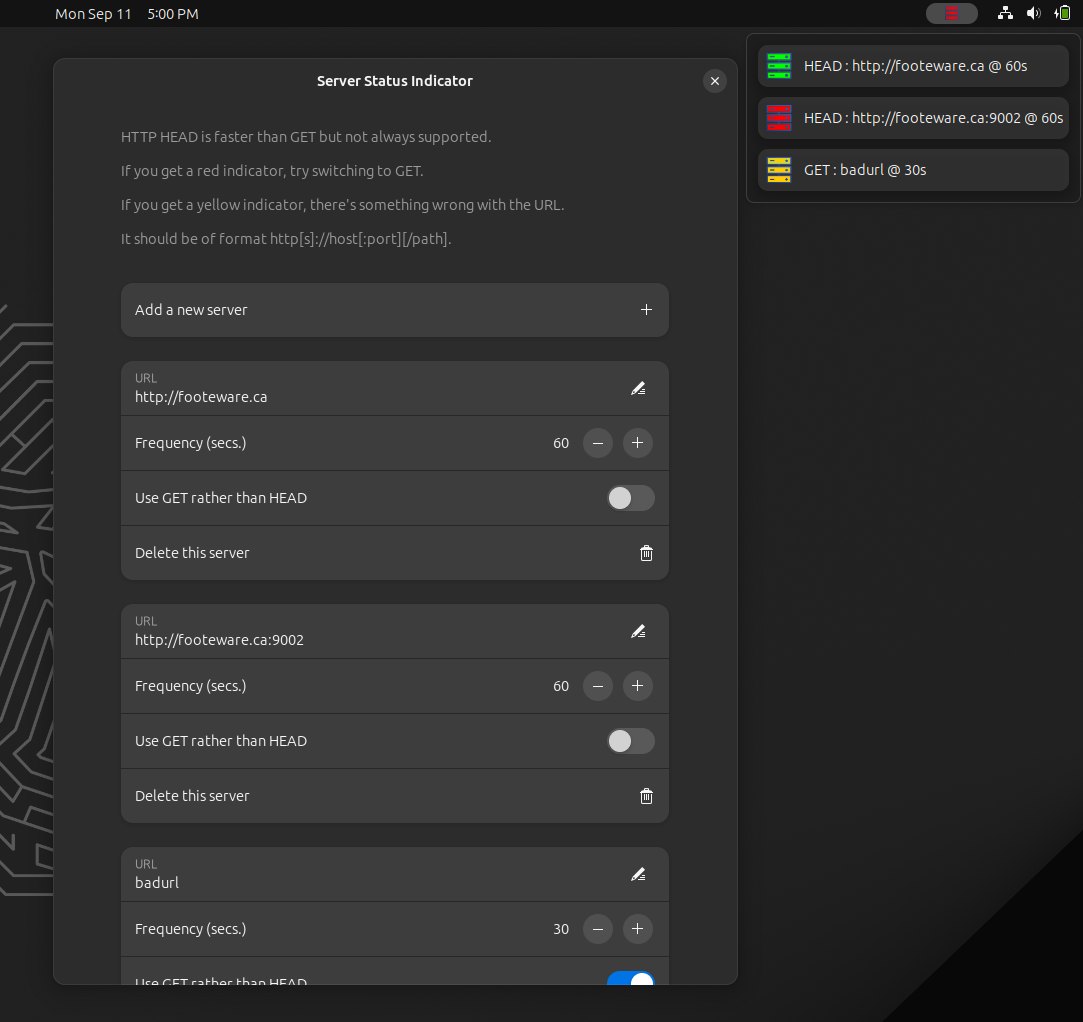
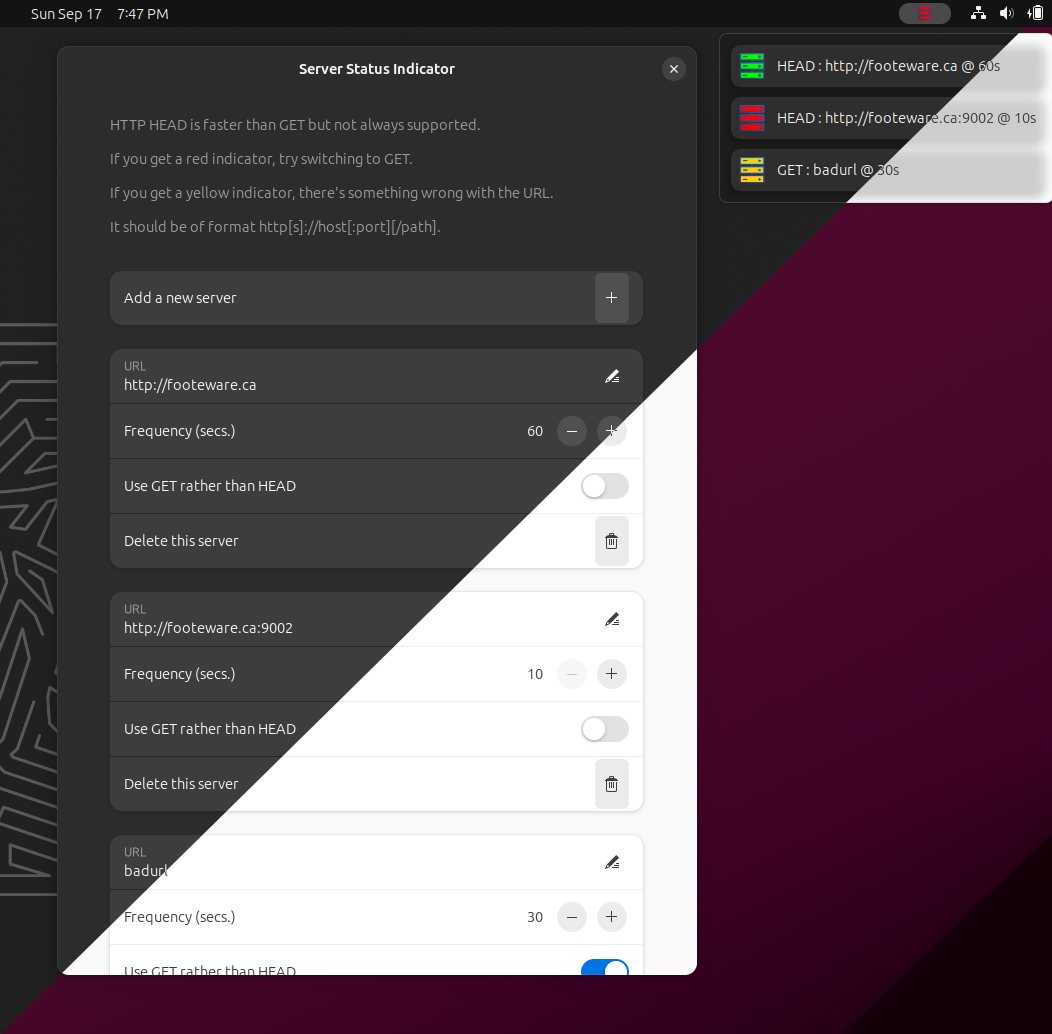
use button on prefs dialog actionRows for add/delete

diff --git a/serverStatusPanel.js b/serverStatusPanel.js
@@ -7,6 +7,10 @@ import GObject from 'gi://GObject';
 import Soup from 'gi://Soup';
 import { Status } from './status.js';
 
+/**
+ * A series of these panels is shown when the indicator icon is clicked. 
+ * Each shows a server status and settings.
+ */
 export const ServerStatusPanel = GObject.registerClass({
 	GTypeName: 'ServerStatusPanel',
 }, class ServerStatusPanel extends St.BoxLayout {
@@ -31,6 +35,8 @@ export const ServerStatusPanel = GObject.registerClass({
 			gicon: this.iconProvider.getIcon(Status.Init),
 			style_class: 'icon',
 		});
+		let panelIconDisposed = false;
+		this.panelIcon.connect("destroy", () => panelIconDisposed = true);
 		this.add_child(this.panelIcon);
 
 		const settingsLabel = new St.Label({
@@ -43,7 +49,7 @@ export const ServerStatusPanel = GObject.registerClass({
 		this.add_child(settingsLabel);
 
 		// call once then schedule
-		this.update(serverSetting.url);
+		this.update(serverSetting.url, panelIconDisposed);
 		this.intervalID = this.setInterval(() => this.update(serverSetting.url), serverSetting.frequency * 1000);
 
 		this.connect('destroy', () => {
@@ -55,17 +61,29 @@ export const ServerStatusPanel = GObject.registerClass({
 		});
 	}
 
+	/**
+	 * Returns the status of the server this panel represents.
+	 * 
+	 * @return <code>Status</code>
+	 */
 	getStatus() {
 		return this.iconProvider.getStatus(this.panelIcon?.gicon);
 	}
 
-	update(url) {
+	/**
+	 * Update this panel by invoking the URL on a schedule.
+	 */
+	update(url, panelIconDisposed) {
 		const httpMethod = this.serverSetting.is_get == 'true' ? 'GET' : 'HEAD';
-		this.get(httpMethod, url, this.panelIcon);
+		this.get(httpMethod, url, this.panelIcon, panelIconDisposed);
 		return GLib.SOURCE_CONTINUE;
 	}
 
-	get(httpMethod, url, panelIcon) {
+	/**
+	 * Execute the URL invocation asynchronously and update the panel icon 
+	 * appropriately then trigger the updating of the indicator icon appropriately.
+	 */
+	get(httpMethod, url, panelIcon, panelIconDisposed) {
 		let message = Soup.Message.new(httpMethod, url);
 		if (message) {
 			this.session.send_and_read_async(
@@ -73,7 +91,7 @@ export const ServerStatusPanel = GObject.registerClass({
 				GLib.PRIORITY_DEFAULT,
 				null,
 				() => {
-					if (panelIcon) {
+					if (panelIcon && !panelIconDisposed) {
 						let newIcon;
 						if (message.get_status() === Soup.Status.OK) {
 							newIcon = this.iconProvider.getIcon(Status.Up);
@@ -93,6 +111,9 @@ export const ServerStatusPanel = GObject.registerClass({
 		}
 	}
 
+	/**
+	 * Schedule the URL invocation.
+	 */
 	setInterval(func, delay) {
 		return GLib.timeout_add(GLib.PRIORITY_DEFAULT, delay, func);
 	}

diff --git a/prefs.js b/prefs.js
@@ -8,6 +8,9 @@ import { ExtensionPreferences } from 'resource:///org/gnome/Shell/Extensions/js/
 import { ServerSetting } from './serverSetting.js';
 import { ServerGroup } from './serverGroup.js';
 
+/**
+ * The main preferences class that creates server groups and saves to gsettings.
+ */
 export default class ServerStatusPreferences extends ExtensionPreferences {
 
 	fillPreferencesWindow(window) {
@@ -15,6 +18,7 @@ export default class ServerStatusPreferences extends ExtensionPreferences {
 		this.serverGroups = [];
 		this.prefSettings = this.getSettings();
 
+		// help group
 		const helpGroup = new Adw.PreferencesGroup({
 			description: `HTTP HEAD is faster than GET but not always supported.\n
 If you get a red indicator, try switching to GET.\n
@@ -23,11 +27,14 @@ It should be of format http[s]://host[:port][/path].`,
 		});
 		page.add(helpGroup);
 
+		// add group
 		const addGroup = new Adw.PreferencesGroup({});
 		const addRow = new Adw.ActionRow({
 			title: 'Add a new server',
 		});
-		addRow.connect('activated', () => {
+		const addButton = Gtk.Button.new_from_icon_name('list-add-symbolic');
+		addRow.add_suffix(addButton);
+		addButton.connect('clicked', () => {
 			let newGroup = new ServerGroup(
 				window,
 				page,
@@ -37,13 +44,12 @@ It should be of format http[s]://host[:port][/path].`,
 				null); // widgets will not be initialized
 			page.add(newGroup.getGroup());
 			this.serverGroups.push(newGroup);
+			this.saveSettings(this.serverGroups, this.prefSettings)
 		});
-		const addImage = Gtk.Image.new_from_icon_name('list-add-symbolic');
-		addRow.add_suffix(addImage);
-		addRow.set_activatable_widget(addImage);
 		addGroup.add(addRow);
 		page.add(addGroup);
 
+		// create one server group per discovered settings
 		const parsedSettings = this.parseSettings(this.prefSettings);
 		for (const savedSettings of parsedSettings) {
 			let newGroup = new ServerGroup(
@@ -60,6 +66,9 @@ It should be of format http[s]://host[:port][/path].`,
 		window.add(page);
 	}
 
+	/**
+	 * Create <code>ServerSetting</code> objects, one per gsettings entry.
+	 */
 	parseSettings(rawSettings) {
 		const variant = rawSettings.get_value('server-settings');
 		const savedRawSettings = variant.deep_unpack();
@@ -77,6 +86,9 @@ It should be of format http[s]://host[:port][/path].`,
 		return settings;
 	}
 
+	/**
+	 * Save current server settings to gsettings.
+	 */
 	saveSettings(serverGroups, prefSettings) {
 		const serverSettingList = [];
 		for (const serverGroup of serverGroups) {

diff --git a/extension.js b/extension.js
@@ -15,6 +15,9 @@ let panelIcon;
 let statusPanels;
 let extensionListenerId;
 
+/**
+ * The taskbar indicator with a clickable icon showing worst status of all server statuses.
+ */
 const Indicator = GObject.registerClass(
 	class Indicator extends PanelMenu.Button {
 		_init() {
@@ -28,6 +31,10 @@ const Indicator = GObject.registerClass(
 		}
 	});
 
+/**
+ * The main extension class. Creates an <code>Indicator</code> and keeps 
+ * it updated based on status of specified servers settings.
+ */
 export default class ServerStatusIndicatorExtension extends Extension {
 	enable() {
 		iconProvider = new IconProvider(this.path + '/assets/');
@@ -49,10 +56,11 @@ export default class ServerStatusIndicatorExtension extends Extension {
 		extensionListenerId = this.settings.connect('changed', () => {
 			this.onPrefChanged();
 		});
-
-		this.onPrefChanged();
 	}
 
+	/**
+	 * Destroys and nulls artifacts for garbage collection.
+	 */
 	disable() {
 		this.settings.disconnect(extensionListenerId);
 		this.savedSettings = null;
@@ -66,7 +74,10 @@ export default class ServerStatusIndicatorExtension extends Extension {
 		panelIcon = null;
 		statusPanels = [];
 	}
-
+	
+	/**
+	 * Creates <code>ServerSettings</code> objects based on discovered gsettings entries.
+	 */
 	parseSettings() {
 		const variant = this.settings.get_value('server-settings');
 		const saved = variant.deep_unpack();
@@ -81,6 +92,9 @@ export default class ServerStatusIndicatorExtension extends Extension {
 		return savedSettings;
 	}
 
+	/**
+	 * Preferences have changed the set of server settings so we can update the indicator icon.
+	 */
 	onPrefChanged() {
 		panelIcon.gicon = iconProvider.getIcon(Status.Init);
 		statusPanels = [];
@@ -95,10 +109,16 @@ export default class ServerStatusIndicatorExtension extends Extension {
 		this.updateIcon();
 	}
 
+	/**
+	 * Create a <code>ServerStatusPanel</code> with a set of server settings.
+	 */
 	getPanel(setting) {
 		return new ServerStatusPanel(setting, this.updateIcon, iconProvider);
 	}
 
+	/**
+	 * Update the indicator icon based on changes in server settings.
+	 */
 	updateIcon() {
 		const statusList = [];
 		for (const statusPanel of statusPanels) {

diff --git a/serverGroup.js b/serverGroup.js
@@ -4,6 +4,10 @@ import Gtk from 'gi://Gtk';
 import Adw from 'gi://Adw';
 import { ServerSetting } from './serverSetting.js';
 
+/**
+ * A new group is displayed when Add is clicked in the preferences dialog. 
+ * It displays controls for settings for a server.
+ */
 export class ServerGroup {
 
 	constructor(window, page, serverGroups, prefSettings, saveCallback, settings) {
@@ -48,7 +52,10 @@ export class ServerGroup {
 		const deleteRow = new Adw.ActionRow({
 			title: 'Delete this server',
 		});
-		deleteRow.connect('activated', () => {
+		const deleteButton = Gtk.Button.new_from_icon_name('edit-delete-symbolic');
+		deleteRow.add_suffix(deleteButton);
+		this.serverSettingGroup.add(deleteRow);
+		deleteButton.connect('clicked', () => {
 			const messageDialog = new Adw.MessageDialog({
 				transient_for: window,
 				destroy_with_parent: true,
@@ -72,23 +79,27 @@ export class ServerGroup {
 			});
 			messageDialog.present();
 		});
-		const deleteImage = Gtk.Image.new_from_icon_name('edit-delete-symbolic');
-		deleteRow.add_suffix(deleteImage);
-		deleteRow.set_activatable_widget(deleteImage);
-		this.serverSettingGroup.add(deleteRow);
-
+		
 		this.createServerSettings();
-		saveCallback(this.serverGroups, prefSettings);
 	}
 
+	/**
+	 * Return this group's server settings.
+	 */
 	getSettings() {
 		return this.settings;
 	}
 
+	/**
+	 * Return this group.
+	 */
 	getGroup() {
 		return this.serverSettingGroup;
 	}
 
+	/**
+	 * Create a <Code>ServerSetting</code> based on control values.
+	 */
 	createServerSettings() {
 		this.settings = new ServerSetting(
 			this.urlRow.text,
@@ -97,6 +108,9 @@ export class ServerGroup {
 		);
 	}
 
+	/**
+	 * Create a unique ID for this group.
+	 */
 	createUID() {
 		const buf = [];
 		const chars = 'ABCDEFGHIJKLMNOPQRSTUVWXYZabcdefghijklmnopqrstuvwxyz0123456789';
@@ -107,10 +121,16 @@ export class ServerGroup {
 		return buf.join('');
 	}
 
+	/**
+	 * Return this group's unique ID.
+	 */
 	getId() {
 		return this.id;
 	}
 
+	/**
+	 * Remove this group from the set of all groups.
+	 */
 	removeGroup(id) {
 		for (let i = 0; i < this.serverGroups.length; i++) {
 			let candidate = this.serverGroups[i];

diff --git a/iconProvider.js b/iconProvider.js
@@ -3,6 +3,9 @@
 import Gio from 'gi://Gio';
 import { Status } from './status.js';
 
+/**
+ * Provides gicons and their statuses. 
+ */
 export class IconProvider {
 
 	constructor(assetPath) {
@@ -12,6 +15,9 @@ export class IconProvider {
 		this.serverBadIcon = Gio.icon_new_for_string(assetPath + '/server-bad.svg');
 	}
 
+	/**
+	 * Get a gicon for the provided <code>Status</code>.
+	 */
 	getIcon(status) {
 		let icon;
 		switch (status) {
@@ -30,6 +36,9 @@ export class IconProvider {
 		return icon;
 	}
 
+	/**
+	 * Get a <code>Status</code> for the provided gicon.
+	 */
 	getStatus(icon) {
 		let status;
 		switch (icon) {
@@ -48,6 +57,9 @@ export class IconProvider {
 		return status;
 	}
 
+	/**
+	 * Sets all status-related gicons to null for garbage collection.
+	 */
 	destroy() {
 		this.serverIcon = null;
 		this.serverUpIcon = null;

diff --git a/status.js b/status.js
@@ -1,5 +1,8 @@
 'use strict';
 
+/**
+ * A set of enum-like constants describing a server status.
+ */
 export const Status = Object.freeze({
 	Init: 'init',
 	Up: 'up',
